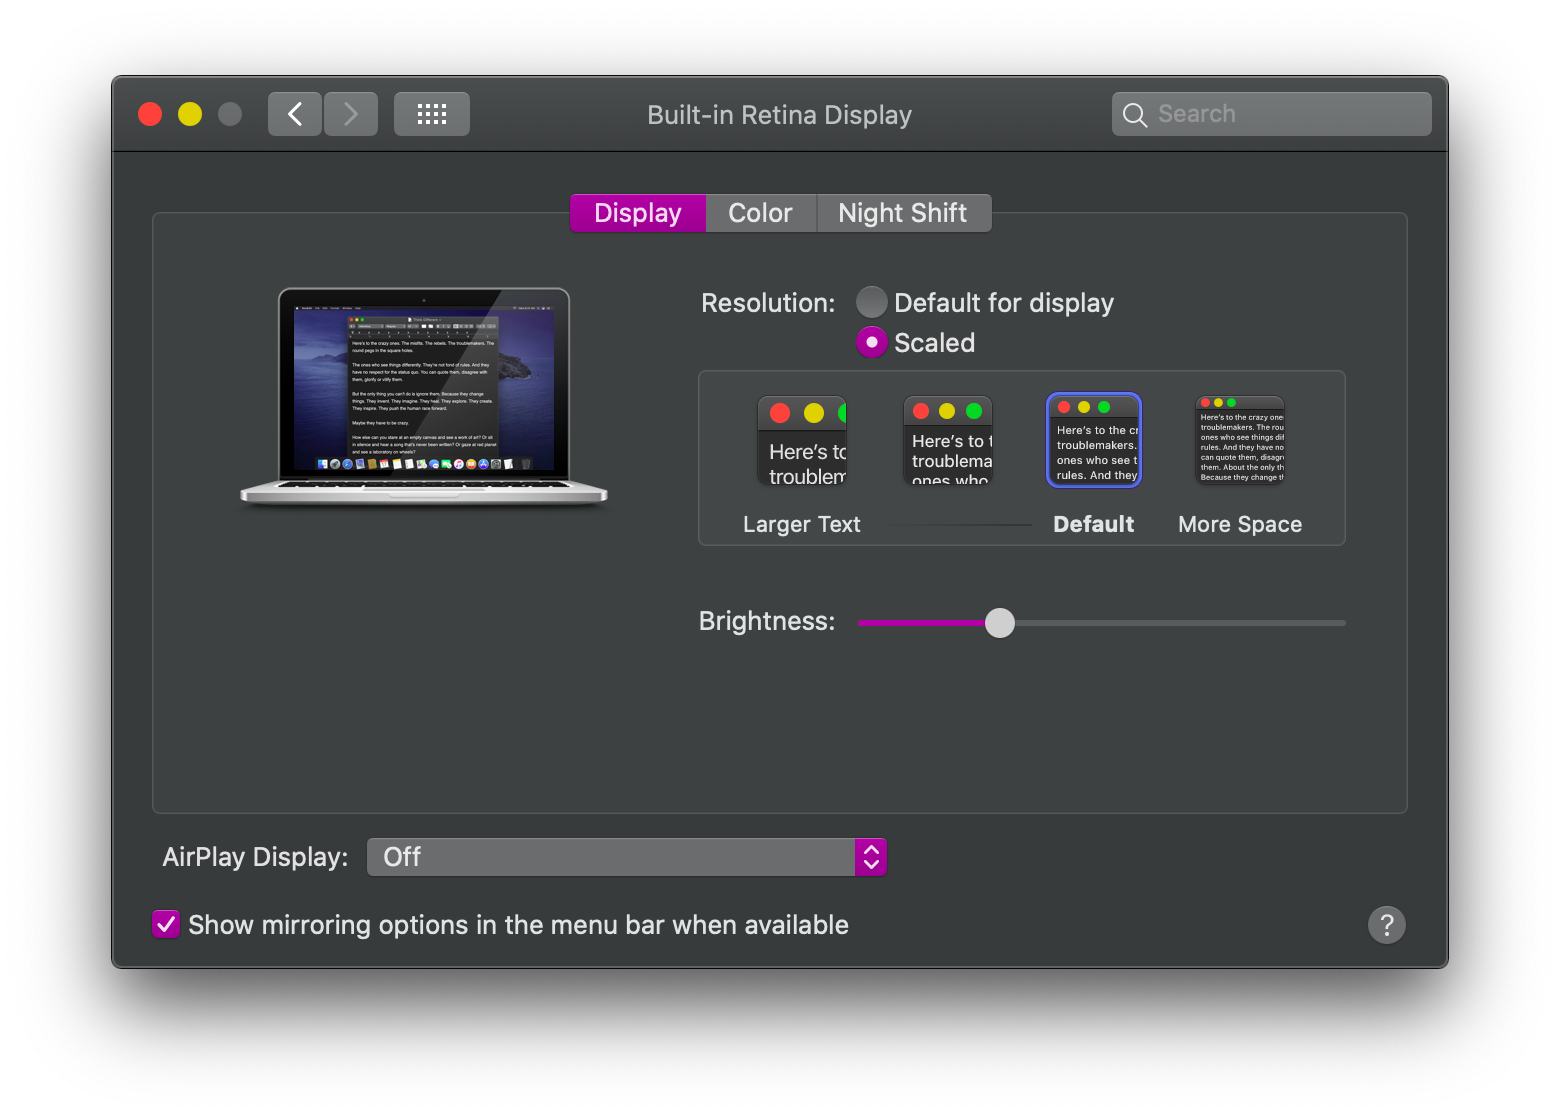
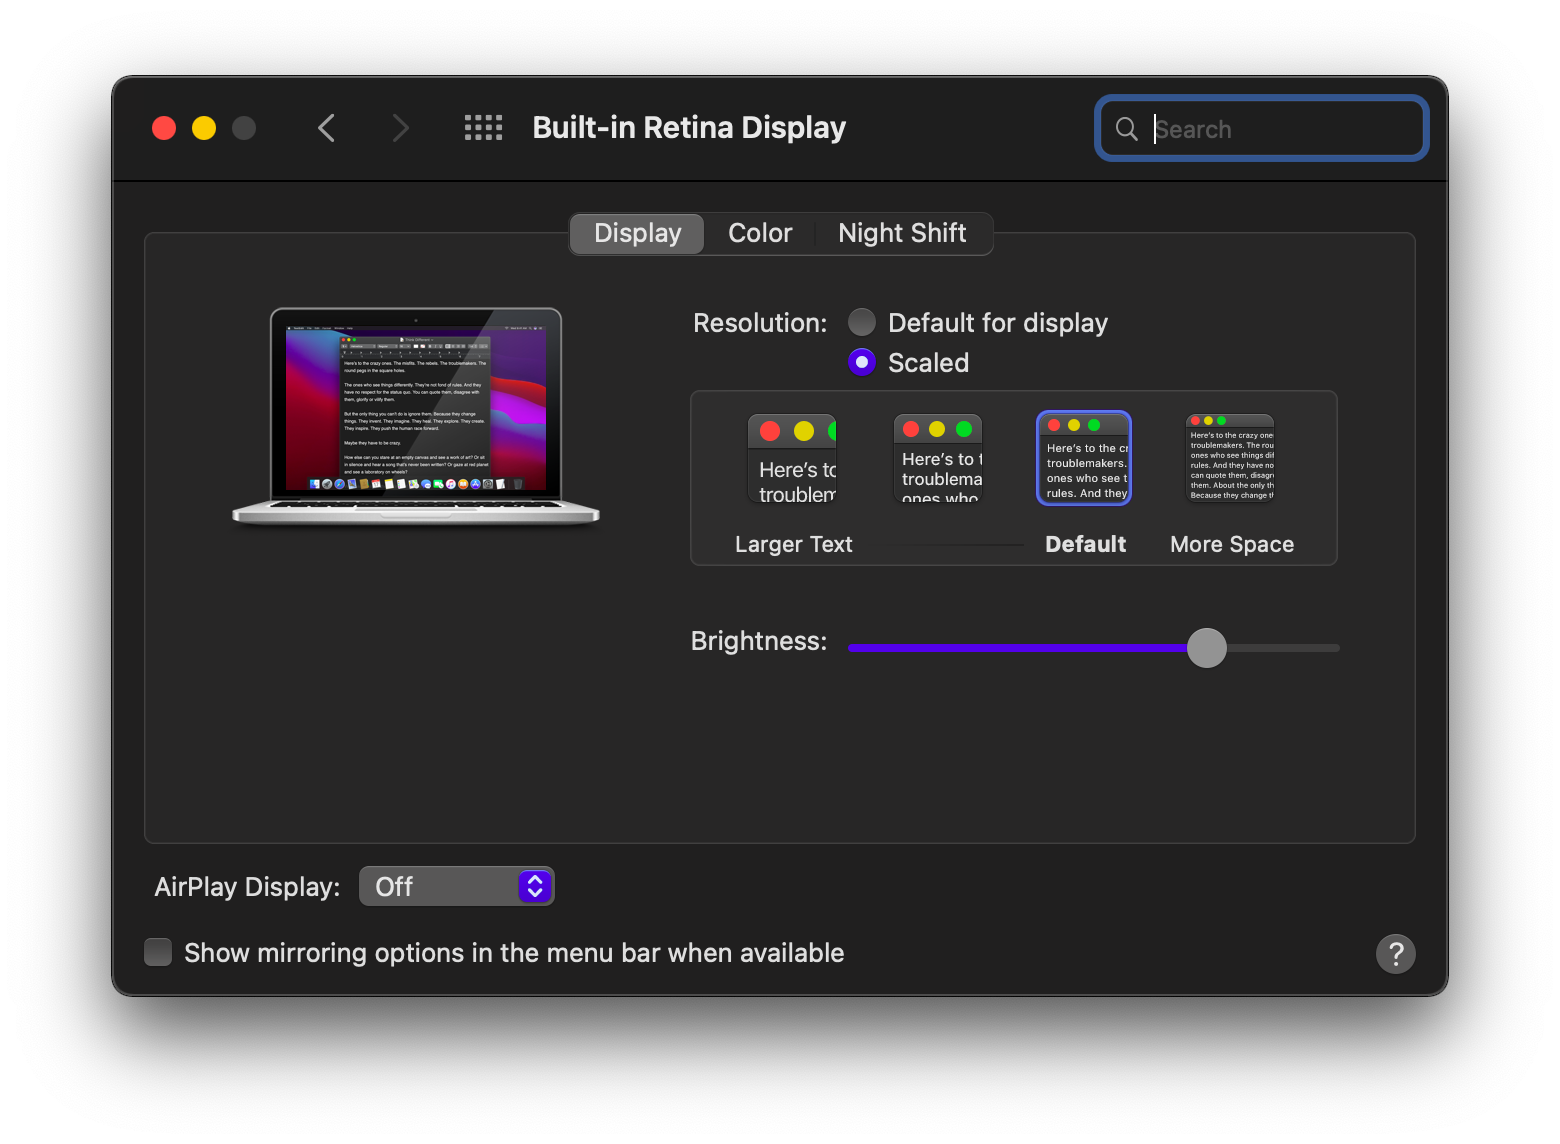
README update: Big Sur screenshots and error 66 workaround.

diff --git a/README.md b/README.md
@@ -33,7 +33,7 @@ Then set it on System Preferences.
 ![Keyboard settings](./assets/keyboard.png)
 
 1. Use xzhih's [script](https://github.com/xzhih/one-key-hidpi) to enable hidpi. (Recommended, needs to disable SIP)
-For Big Sur, disable SIP (use the cleanNVRAM option on OpenCore to delete the old key) and use this fork.
+For Big Sur, use [this fork](https://github.com/mlch911/one-key-hidpi) that doesn't need access to / nor disabled SIP.
 ```bash
 bash -c "$(curl -fsSL https://raw.githubusercontent.com/mlch911/one-key-hidpi/master/hidpi.sh)"
 ```
@@ -73,8 +73,8 @@ defaults write com.apple.appstore.commerce Storefront -string \
 ## What's sometimes working
 * Some Fn keys migth have diferent behavior. (Fn + F12 lowers brightness and 'Pausa' increments it)
 * Camera is DIM, works on well lit rooms.
-* Sleep (OpenCore's sleep is way harder.) <br/>
-* Power off. (Restart to clover and press the power button) <br/>
+* Sleep (OpenCore's sleep is way harder.) Well, it sleeps. Just KP's it's way back.<br/>
+* Power off. (Restart to OpenCore and press the power button) <br/>
 
 ## What's not working
 * Touchscreen (Big Sur doesn't like VoodooI2C), go back to [ad85ba](https://github.com/xtrs84zk/Aspire-V5-573P-Hackintosh/commit/ad85baa75662148a61e47ba679cee969b94cf8c0) for the last Catalina with touchscreen. <br/>
